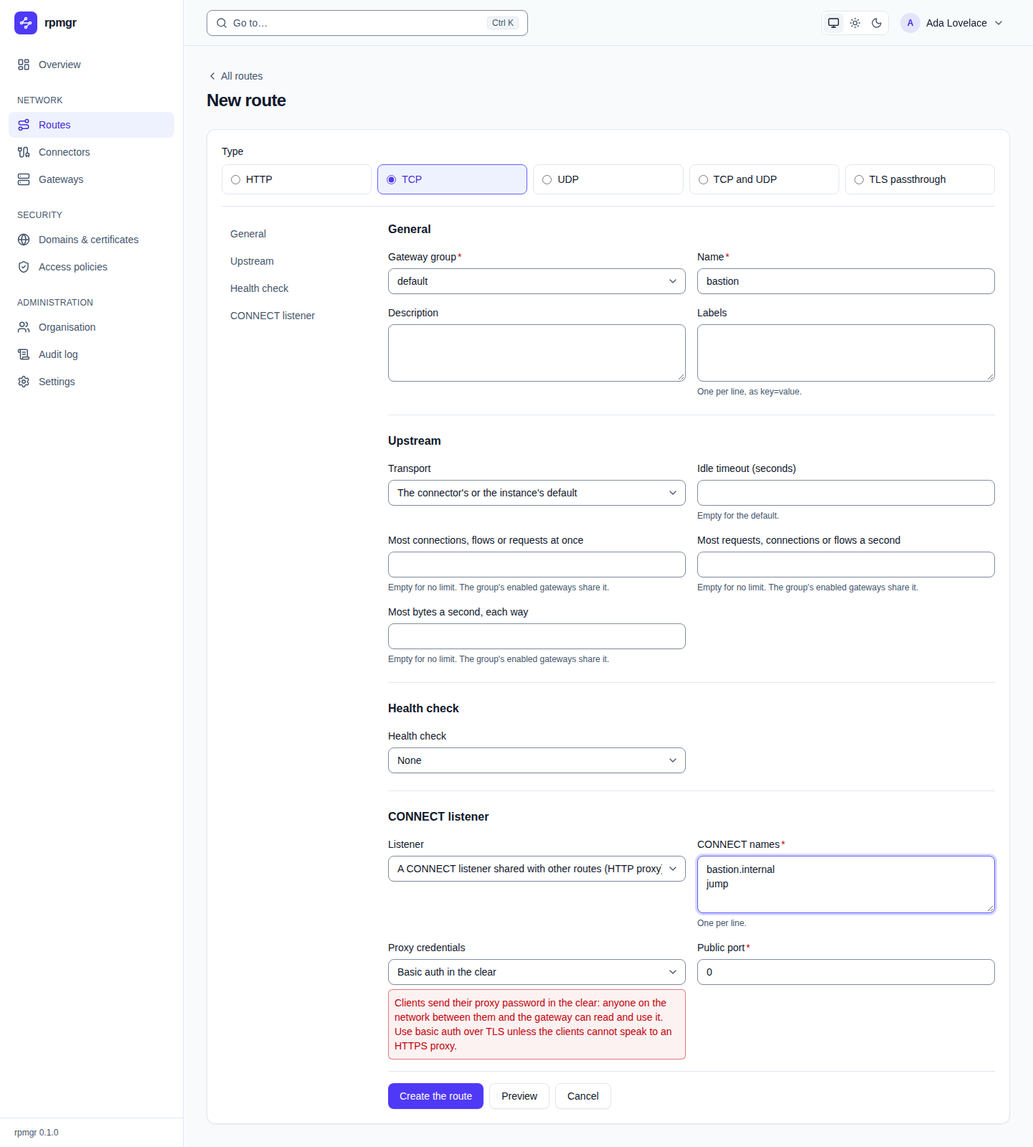
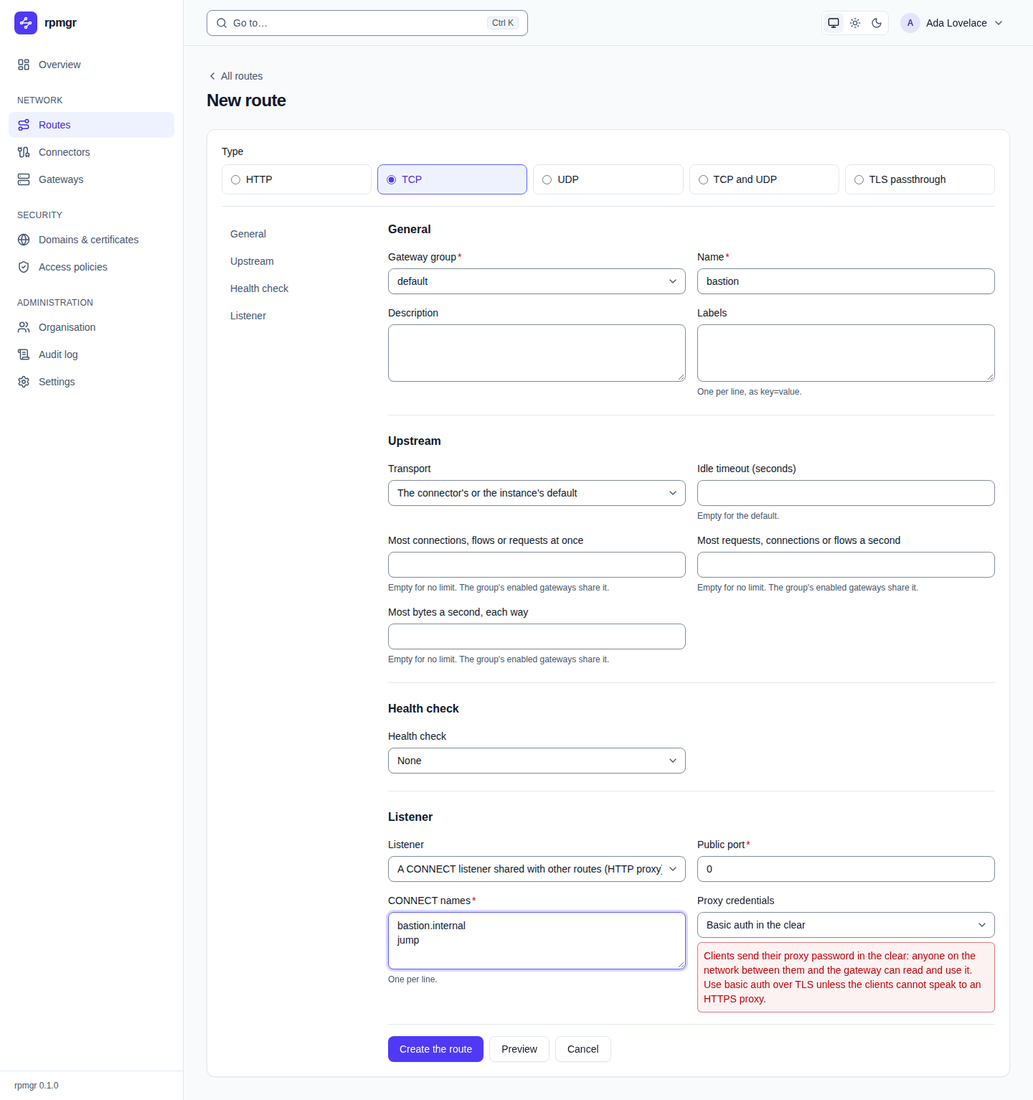
fix(web): name the listener section for every route type
The product owner renamed the "CONNECT listener" section to "Listener"
and gave it to every route on a port: TCP, UDP, TCP and UDP, and
CONNECT. A plain TCP route showed a section titled after a mode it does
not use, and a UDP route's public port stood with the hostnames. The
section now holds the public port, a TCP route's listener mode and, in
http_connect mode, its CONNECT fields, so sectionOf no longer needs the
route.

The decision is renumbered from D151 to D153, as D151 and D152 are
reserved for #966 and #968. A phone-width mock-up of a TCP route joins
09, and the CONNECT route's screenshot is retaken.

Refs #969

diff --git a/web/src/route-form/sections.test.tsx b/web/src/route-form/sections.test.tsx
@@ -41,10 +41,10 @@ const want: Record<string, Record<string, string[]>> = {
   },
   tlsPassthrough: { general: [], matching: ["hostnames"], upstream: [], health: [] },
   tcp: { general: [], upstream: ["transport", "idleTimeout", "maxConnections", "requestsPerSecond", "bandwidth"], health: [],
-    connect: ["listenerMode", "authorities", "connectAuth", "connectHostname", "connectCertificate", "port"] },
-  udp: { general: [], matching: ["port"], upstream: ["transport", "flowIdleTimeout", "maxConnections", "requestsPerSecond", "bandwidth"], health: [] },
-  tcpUdp: { general: [], matching: ["port"], upstream: ["transport", "tcpIdleTimeout", "udpFlowIdleTimeout", "maxConnections", "requestsPerSecond", "bandwidth"],
-    health: [] },
+    listener: ["listenerMode", "port", "authorities", "connectAuth", "connectHostname", "connectCertificate"] },
+  udp: { general: [], upstream: ["transport", "flowIdleTimeout", "maxConnections", "requestsPerSecond", "bandwidth"], health: [], listener: ["port"] },
+  tcpUdp: { general: [], upstream: ["transport", "tcpIdleTimeout", "udpFlowIdleTimeout", "maxConnections", "requestsPerSecond", "bandwidth"],
+    health: [], listener: ["port"] },
 };
 
 describe("routeSections", () => {
@@ -59,16 +59,15 @@ describe("routeSections", () => {
   it.each(Object.keys(routes))("places every field of a %s route in exactly one section the order names", (type) => {
     const r = routes[type]!;
     const fields = routeFields(r).map((f) => f.key);
-    expect(fields.filter((k) => sectionOf(r, k) === undefined)).toEqual([]);
+    expect(fields.filter((k) => sectionOf(k) === undefined)).toEqual([]);
     expect(routeSections(r).flatMap((s) => s.fields.map((f) => f.key)).sort()).toEqual([...fields].sort());
   });
 
   it("knows no section of a key no field has, and puts a new route's gateway group in General", () => {
-    expect(sectionOf(routes.http!, "nothing")).toBeUndefined();
-    expect(sectionOf(routes.http!, "group")).toBe("general");
-    // The port stands with the CONNECT listener on a TCP route, and with the hostnames otherwise.
-    expect(sectionOf(routes.tcp!, "port")).toBe("connect");
-    expect(sectionOf(routes.udp!, "port")).toBe("matching");
+    expect(sectionOf("nothing")).toBeUndefined();
+    expect(sectionOf("group")).toBe("general");
+    // Every route on a port has it in Listener, whether or not the route can be a CONNECT listener.
+    expect(sectionOf("port")).toBe("listener");
   });
 
   it("gives every section a distinct anchor", () => {
@@ -96,9 +95,10 @@ describe("the route form's sections", () => {
   it.each([
     ["HTTP", routes.http!, ["General", "Hostnames & matching", "TLS", "Requests & headers", "Upstream", "Health check", "Maintenance"]],
     ["TLS passthrough", routes.tlsPassthrough!, ["General", "Hostnames & matching", "Upstream", "Health check"]],
-    ["TCP", routes.tcp!, ["General", "Upstream", "Health check", "CONNECT listener"]],
-    ["CONNECT", routes.connect!, ["General", "Upstream", "Health check", "CONNECT listener"]],
-    ["UDP", routes.udp!, ["General", "Hostnames & matching", "Upstream", "Health check"]],
+    ["TCP", routes.tcp!, ["General", "Upstream", "Health check", "Listener"]],
+    ["CONNECT", routes.connect!, ["General", "Upstream", "Health check", "Listener"]],
+    ["UDP", routes.udp!, ["General", "Upstream", "Health check", "Listener"]],
+    ["TCP and UDP", routes.tcpUdp!, ["General", "Upstream", "Health check", "Listener"]],
   ])("shows a %s route's sections, each linked from the list to its heading", async (_, route, titles) => {
     edit(route);
     await screen.findByLabelText("Name");
@@ -112,11 +112,11 @@ describe("the route form's sections", () => {
     expect(marked()).toEqual([]);
   });
 
-  it("shows a CONNECT route's listener fields in its section, and a plain TCP route's listener and port only", async () => {
+  it("shows a CONNECT route's listener fields in Listener, a plain TCP route's mode and port, and a UDP route's port only", async () => {
     edit(routes.connect!);
     await screen.findByLabelText("Name");
     const section = (title: string) => screen.getByRole("heading", { name: title }).closest("section")!;
-    const connect = within(section("CONNECT listener"));
+    const connect = within(section("Listener"));
     for (const label of ["Listener", "CONNECT names", "Proxy credentials", "Listener hostname (HTTPS proxy)", "Listener certificate", "Public port"]) {
       expect(connect.getByLabelText(label, { exact: true })).toBeTruthy();
     }
@@ -124,8 +124,13 @@ describe("the route form's sections", () => {
     cleanup();
     edit(routes.tcp!);
     await screen.findByLabelText("Name");
-    const controls = section("CONNECT listener").querySelectorAll<HTMLInputElement | HTMLSelectElement>("input, select, textarea");
-    expect([...controls].map((c) => c.labels?.[0]?.textContent)).toEqual(["Listener", "Public port"]);
+    const labels = () => [...section("Listener").querySelectorAll<HTMLInputElement | HTMLSelectElement>("input, select, textarea")]
+      .map((c) => c.labels?.[0]?.textContent);
+    expect(labels()).toEqual(["Listener", "Public port"]);
+    cleanup();
+    edit(routes.udp!);
+    await screen.findByLabelText("Name");
+    expect(labels()).toEqual(["Public port"]);
   });
 
   it("marks the sections with errors and moves the focus to the first such field in the page's order", async () => {

diff --git a/web/src/route-form/sections.tsx b/web/src/route-form/sections.tsx
@@ -10,8 +10,8 @@ import { FieldGrid, FormField } from "@/route-form/form-field";
 import { cn } from "@/lib/utils";
 
 // The route form's sections, in the page's order, each with the keys of its fields in their order
-// (docs/09-web-ui.md, "Route form"). group is the gateway group of a new route. A UDP or "TCP and
-// UDP" route has no CONNECT listener, so its port stands with the hostnames, as how it is reached.
+// (docs/09-web-ui.md, "Route form"). group is the gateway group of a new route. Listener holds a
+// route's public port, a TCP route's listener mode and, in http_connect mode, its CONNECT fields.
 const order = [
   ["general", ["group", "name", "description", "labels"]],
   ["matching", ["hostnames", "pathPrefix", "headerMatches"]],
@@ -20,7 +20,7 @@ const order = [
   ["upstream", ["transport", "upstreamHeaderTimeout", "upstreamIdleTimeout", "idleTimeout", "flowIdleTimeout", "tcpIdleTimeout",
     "udpFlowIdleTimeout", "maxConnections", "requestsPerSecond", "bandwidth"]],
   ["health", ["healthCheck", "healthPort", "healthPath", "healthStatus", "healthInterval", "healthTimeout", "healthUnhealthy", "healthHealthy"]],
-  ["connect", ["listenerMode", "authorities", "connectAuth", "connectHostname", "connectCertificate", "port"]],
+  ["listener", ["listenerMode", "port", "authorities", "connectAuth", "connectHostname", "connectCertificate"]],
   ["maintenance", ["maintenance", "maintenanceMessage"]],
 ] as const satisfies readonly (readonly [string, readonly string[]])[];
 
@@ -29,9 +29,9 @@ export const sectionIds: SectionId[] = order.map(([id]) => id);
 const placed = new Map<string, SectionId>(order.flatMap(([id, keys]) => keys.map((k) => [k, id] as const)));
 const rank = new Map<string, number>(order.flatMap(([, keys]) => keys.map((k, i) => [k, i] as const)));
 
-// sectionOf is the section of a field of route r by its key; undefined for a key no section has.
-export function sectionOf(r: Route, key: string): SectionId | undefined {
-  return key === "port" && r.spec.case !== "tcp" ? "matching" : placed.get(key);
+// sectionOf is the section of a field by its key; undefined for a key no section has.
+export function sectionOf(key: string): SectionId | undefined {
+  return placed.get(key);
 }
 
 // anchor is the ID of a section's element, which the section list links to.
@@ -49,18 +49,18 @@ export function routeSections(r: Route): RouteSection[] {
   const fields = routeFields(r);
   const at = (key: string) => rank.get(key) ?? -1;
   return sectionIds
-    .map((id) => ({ id, fields: fields.filter((f) => (sectionOf(r, f.key) ?? "general") === id).sort((a, b) => at(a.key) - at(b.key)) }))
+    .map((id) => ({ id, fields: fields.filter((f) => (sectionOf(f.key) ?? "general") === id).sort((a, b) => at(a.key) - at(b.key)) }))
     .filter((s) => s.fields.length > 0);
 }
 
 // SectionList links to each section of the form; it stands beside the form from 1024 px and above
 // it on narrower screens. A section that holds a field with an error is marked, with an icon and in
 // the colour of errors, and its link says so to screen readers.
-export function SectionList<V extends FieldValues>({ route, sections, form, className }: {
-  route: Route; sections: RouteSection[]; form: UseFormReturn<V>; className?: string;
+export function SectionList<V extends FieldValues>({ sections, form, className }: {
+  sections: RouteSection[]; form: UseFormReturn<V>; className?: string;
 }) {
   const { t } = useTranslation();
-  const invalid = new Set(Object.keys(form.formState.errors).map((k) => sectionOf(route, k) ?? "general"));
+  const invalid = new Set(Object.keys(form.formState.errors).map((k) => sectionOf(k) ?? "general"));
   return (
     <nav aria-label={t("routeForm.sections.list")} className={cn("lg:sticky lg:top-24 lg:self-start", className)}>
       <ul className="flex flex-wrap gap-x-1 gap-y-1 text-sm lg:grid lg:gap-0.5">

diff --git a/web/e2e/sign-in.spec.ts b/web/e2e/sign-in.spec.ts
@@ -222,7 +222,7 @@ test("signs in, creates an API token with a step-up, sets up an authenticator an
   await expect(page.getByText("A bandwidth limit is at least 1024 bytes a second; leave it empty for none.")).toBeVisible();
   await expect(page.getByLabel("Most bytes a second, each way")).toHaveAttribute("aria-invalid", "true");
   // The section list marks both sections, and the failed save moved to the first field with an
-  // error on the page (D151).
+  // error on the page (D153).
   const sectionList = page.getByRole("navigation", { name: "Sections of the form" });
   await expect(sectionList.getByRole("link", { name: /\(has an error\)$/ })).toHaveText(["Hostnames & matching (has an error)", "Upstream (has an error)"]);
   await expect(page.getByLabel("Serve only requests with these headers")).toBeFocused();

diff --git a/web/src/pages/route-edit.tsx b/web/src/pages/route-edit.tsx
@@ -135,7 +135,7 @@ function RouteForm({ base, initial, onRestart }: { base: Route; initial?: RouteV
         </>
       ) : (
         <div className="grid gap-6 lg:grid-cols-[13rem_minmax(0,1fr)]">
-          <SectionList route={base} sections={sections} form={form} />
+          <SectionList sections={sections} form={form} />
           <form ref={formRef} onSubmit={form.handleSubmit(save, jump)} className="grid min-w-0 gap-4 rounded-xl border border-border bg-card p-5 shadow-xs" noValidate>
             {conflict && (
               <Conflict base={base} mine={conflict.mine} theirs={conflict.theirs}

diff --git a/web/src/pages/route-new.tsx b/web/src/pages/route-new.tsx
@@ -168,7 +168,7 @@ function NewRouteForm({ type }: { type: RouteType }) {
   const groupError = form.formState.errors.group?.message;
   return (
     <div className="grid gap-6 border-t border-border pt-5 lg:grid-cols-[13rem_minmax(0,1fr)]">
-      <SectionList route={base} sections={sections} form={form} />
+      <SectionList sections={sections} form={form} />
       <form ref={formRef} onSubmit={form.handleSubmit(save, jump)} className="grid min-w-0 gap-4" noValidate>
         <FormSections sections={sections} form={form} general={(
           <div className="grid gap-1.5">

diff --git a/docs/14-open-decisions.md b/docs/14-open-decisions.md
@@ -133,7 +133,7 @@
 | D148 | How a restart with socket hand-off is started, as an all-in-one's `systemctl reload` reloads the connector-local policy today | `systemctl reload` is the hand-off for gateways and all-in-ones, and `rpmgr policy` signals an all-in-one itself; reload unchanged, the hand-off only through `rpmgr handoff` | **`systemctl reload` is the hand-off** (decided 2026-10-25): gateway and all-in-one units get `ExecReload=<bin> handoff <role>`, and `rpmgr handoff <role>` does the same for every role; `rpmgr policy …` sends an all-in-one `SIGHUP` itself; a connector's reload stays the policy reload; `systemctl restart` stays the restart without a hand-off. Weakness: a `systemctl reload rpmgr-all-in-one` that an operator used for the policy now restarts the process | [10](10-operations.md#hardened-systemd-units), [16](16-cli.md#commands) |
 | D149 | Whether the container image restarts with socket hand-off, where rpmgr is the container's first process | no hand-off in containers, documented; an init wrapper in the image | **No hand-off in containers** (decided 2026-10-25): a container restarts with the drain of a planned restart, and an orchestrator replaces containers instead. Weakness: a lone gateway in a container refuses connections while it restarts | [10](10-operations.md#hardened-systemd-units), [04](04-security.md#socket-hand-off-phase-2) |
 | D150 | The smaller choices of the socket hand-off design (slice 17.1) and the rules for its study 17.2, accepted together | — | **Accepted as proposed** (2026-10-25): the old process re-executes the installed binary, checked for root ownership and no group or other write, and passes its sockets by inheritance with a manifest and a status pipe; socket activation and `SO_REUSEPORT` for TCP are rejected; the new process checks every descriptor against the manifest and its boot file and closes others; it starts from the last-known-good snapshot, supersedes the old control session and reports ready, after which the old process stops accepting and sends `Drain{reason: handoff}`, and connectors redial at once; a new process not ready within the hand-off readiness window is killed and the old one serves on; one hand-off at a time, at most one old process; QUIC connection IDs carry the process generation and the old process relays packets and new `udp` flows during the drain; metrics and logs name the generation; an all-in-one moves its controller with `Goodbye{restart}` and a 503 window and resumes it if the new process fails; a plain restart drains and stops as before; the security tests `TestHandoff_OnlyVerifiedBinaryGetsSockets` and `TestHandoff_UnexpectedDescriptorsRefused`; the hand-off applies from v0.3.0 on. The study's rules S-1 to S-7, with their fallbacks, are in ADR-0022. Applied by S10 (2026-10-25, [S10](spikes/S10.md)): S-1, S-5 and S-6 passed; S-2's relay reached 5 to 39 % of quic-go's direct throughput and S-3's lost datagrams, so their fallbacks apply: the old process alone reads the UDP sockets until it exits, connectors on `auto` move over TCP meanwhile, and no connection-ID generation or relay is built; S-4 then failed for a connector pinned to `quic`, so the old process accepts public connections until the new one has sessions of every connector it had; the old process opens no further control session after its `Goodbye{superseded}` | [03](03-connections.md#restarts-with-socket-hand-off-phase-2), [04](04-security.md#socket-hand-off-phase-2), [ADR-0022](adr/0022-socket-hand-off-by-re-exec.md) |
-| D151 | How the route form, which showed about 30 fields in one flat grid, lets a user find a setting | titled sections on one page with a section list; tabs; collapsible sections | **Sections on one page with a section list** (decided 2026-10-27, #969): the new-route and edit forms group their fields into titled sections in a fixed order, leaving out a section with no field for the route's type; a section list beside the form, above it on narrow screens, jumps to each section and marks one that holds a field with an error, and a failed save moves to the first such field; the form's controls stay at its end. Nothing is hidden or collapsed, so the browser's find reaches every field. Weakness: the page stays as long as before | [09](09-web-ui.md#route-form) |
+| D153 | How the route form, which showed about 30 fields in one flat grid, lets a user find a setting | titled sections on one page with a section list; tabs; collapsible sections | **Sections on one page with a section list** (decided 2026-10-27, #969): the new-route and edit forms group their fields into titled sections in a fixed order, leaving out a section with no field for the route's type; a route on a port has a Listener section with its public port, a TCP route's listener mode and, in `http_connect` mode, its CONNECT fields; a section list beside the form, above it on narrow screens, jumps to each section and marks one that holds a field with an error, and a failed save moves to the first such field; the form's controls stay at its end. Nothing is hidden or collapsed, so the browser's find reaches every field. Weakness: the page stays as long as before | [09](09-web-ui.md#route-form) |
 
 ## Project and process
 

diff --git a/docs/09-web-ui.md b/docs/09-web-ui.md
@@ -418,23 +418,24 @@ flowchart LR
 
 The form that creates a route and the one that edits it group their fields into titled sections on
 one page, with a section list beside them that jumps to each section
-([D151](14-open-decisions.md#engineering)).
+([D153](14-open-decisions.md#engineering)).
 
 - **Sections,** in this order; a section with no field for the route's type is left out:
 
   | Section | Fields | Types |
   |---|---|---|
   | General | the gateway group (new routes), name, description, labels | every type |
-  | Hostnames & matching | hostnames, path prefix, header matches; the public port of a UDP or "TCP and UDP" route | HTTP, TLS passthrough, UDP, TCP and UDP |
+  | Hostnames & matching | hostnames, path prefix, header matches | HTTP, TLS passthrough |
   | TLS | TLS certificate, uploaded certificate, port 80, HSTS | HTTP |
   | Requests & headers | host header, request and response headers, WebSocket, largest request body | HTTP |
   | Upstream | transport, upstream response header and idle timeouts, idle and flow idle timeouts, limits | every type |
   | Health check | the health check and its parts | every type |
-  | CONNECT listener | listener, CONNECT names, proxy credentials, listener hostname and certificate, public port | TCP |
+  | Listener | listener mode, public port; for a CONNECT route also CONNECT names, proxy credentials, listener hostname and certificate | TCP, UDP, TCP and UDP |
   | Maintenance | maintenance, maintenance message | HTTP |
 
-  - A TCP route's listener chooses whether it is a CONNECT listener, so a plain TCP route has the
-    section too, with its listener and public port.
+  - Listener holds what the gateway listens on for a route on a port: a TCP route's listener mode,
+    and its public port, as for UDP and "TCP and UDP" routes. A CONNECT route, a TCP route in
+    `http_connect` mode, adds its CONNECT fields there.
   - A field shown only in some cases, such as the uploaded certificate, appears in its section
     while the case holds.
 - **Nothing is hidden or collapsed,** so the browser's find reaches every field. Tabs and
@@ -444,7 +445,31 @@ one page, with a section list beside them that jumps to each section
 - **The section list** is a navigation landmark of links, one per section, each to its heading,
   so the keyboard reaches and follows them like any link. From 1024 px it stands beside the form
   and stays in view while the form scrolls; on narrower screens it sits above the form, its links
-  wrapping across the width, so nothing scrolls sideways.
+  wrapping across the width, so nothing scrolls sideways:
+
+  ```
+  ┌ Edit route bastion (TCP), 390 px ──────────┐
+  │ General · Upstream · Health check ·        │
+  │ Listener                                   │
+  │ ┌────────────────────────────────────────┐ │
+  │ │ General                                │ │
+  │ │ Name *                                 │ │
+  │ │ [bastion                           ]   │ │
+  │ │ …                                      │ │
+  │ ├────────────────────────────────────────┤ │
+  │ │ Listener                               │ │
+  │ │ Listener                               │ │
+  │ │ [A CONNECT listener shared …       ]   │ │
+  │ │ Public port *                          │ │
+  │ │ [0                                 ]   │ │
+  │ │ CONNECT names *                        │ │
+  │ │ [bastion.internal                  ]   │ │
+  │ │ …                                      │ │
+  │ ├────────────────────────────────────────┤ │
+  │ │ [Save]  [Preview]  [Cancel]            │ │
+  │ └────────────────────────────────────────┘ │
+  └────────────────────────────────────────────┘
+  ```
 - **Errors:** a section that holds a field with an error is marked in the list with an icon, in
   the colour of errors, and screen readers hear "has an error" with its name. A save or preview
   that fails moves the focus to the first field with an error, in the order of the page, whether

diff --git a/docs/guide/web-ui/routes.md b/docs/guide/web-ui/routes.md
@@ -62,12 +62,12 @@ section the type has no field for is left out:
 | Section | Route types |
 |---|---|
 | **General** | Every type |
-| **Hostnames & matching** | HTTP, TLS passthrough, UDP, TCP and UDP |
+| **Hostnames & matching** | HTTP, TLS passthrough |
 | **TLS** | HTTP |
 | **Requests & headers** | HTTP |
 | **Upstream** | Every type |
 | **Health check** | Every type |
-| **CONNECT listener** | TCP |
+| **Listener** | TCP, UDP, TCP and UDP |
 | **Maintenance** | HTTP |
 
 The list of sections beside the form, above it on a phone, jumps to a section when you choose it.
@@ -92,7 +92,6 @@ field that the form or the controller refuses is marked in the list in red, with
 | **Hostnames** | HTTP and TLS passthrough: one per line. Each must be a verified domain of the organisation, or a name below one claimed with **Also every name below it**, which also allows a `*.` name ([Domains & certificates](domains.md)). A `*.` name needs **Uploaded**: ACME issues no certificate for it |
 | **Path prefix** | HTTP: serve only paths below it; empty for all |
 | **Serve only requests with these headers** | HTTP: header matches, one per line: `Name: value` for that exact value, or `Name` alone for any value. Where routes share a hostname and path prefix, the one with more matching headers wins ([Header matches](../routes/http.md#header-matches)). Empty matches every request |
-| **Public port** | UDP, and TCP and UDP: the gateway group's port the route takes |
 
 **TLS**, on HTTP routes:
 
@@ -153,15 +152,17 @@ is refused on its field, as is anything that is not a whole number.
 The bounds of these values are in [03](../../03-connections.md#timeouts-keepalive-and-backoff). A
 TLS passthrough route, and a route with an h2c target, take a TCP check only.
 
-**CONNECT listener**, on TCP routes ([CONNECT routes](../routes/tcp-and-udp.md#connect-routes)):
-**Listener** and **Public port**; with **A CONNECT listener shared with other routes (HTTP
-proxy)** also **CONNECT names**, one per line, and **Proxy credentials**: **None: IP rules only**,
-**Basic auth over TLS (HTTPS proxy)**, which asks for **Listener hostname (HTTPS proxy)** and
-**Listener certificate**, or **Basic auth in the clear**, which the form warns about as long as it
-is chosen, as the server does after the save.
+**Listener**, on TCP, UDP, and TCP and UDP routes: what the gateway listens on
+([TCP and UDP routes](../routes/tcp-and-udp.md)). Every such route has **Public port**, the
+gateway group's port it takes. A port of 0, the default, takes a random free port from the group's
+port pools, free for both protocols on a TCP and UDP route, within the organisation's port quota.
 
-A public port of 0, the default, takes a random free port from the gateway group's port pools,
-free for both protocols on a TCP and UDP route, within the organisation's port quota.
+A TCP route also has **Listener**: **Its own public port** or **A CONNECT listener shared with other
+routes (HTTP proxy)** ([CONNECT routes](../routes/tcp-and-udp.md#connect-routes)). The second adds
+**CONNECT names**, one per line, and **Proxy credentials**: **None: IP rules only**, **Basic auth
+over TLS (HTTPS proxy)**, which asks for **Listener hostname (HTTPS proxy)** and **Listener
+certificate**, or **Basic auth in the clear**, which the form warns about as long as it is chosen,
+as the server does after the save.
 
 **Maintenance**, on HTTP routes
 ([Maintenance and error pages](../routes/maintenance-and-pages.md)):

diff --git a/CHANGELOG.md b/CHANGELOG.md
@@ -119,8 +119,9 @@ Changes to the design documents are not recorded here: see the git history and t
   starts with `Rpmgr-User-`, also spelt with `_`, is removed before a request goes upstream; both
   are kept for the gateway's own endpoints and OIDC sign-in. (#617)
 - Web UI: the new-route and edit forms group their fields into titled sections, such as
-  **Hostnames & matching**, **TLS** and **Upstream**, with a list beside the form, above it on a
-  phone, that jumps to each section and marks one holding a field with an error. A failed save or
+  **Hostnames & matching**, **TLS**, **Upstream** and, for routes on a port, **Listener**, with a
+  list beside the form, above it on a phone, that jumps to each section and marks one holding a
+  field with an error. A failed save or
   preview puts the cursor in the first field with an error. Every field stays on the page. (#969)
 
 ### Fixed

diff --git a/docs/guide/routes/tcp-and-udp.md b/docs/guide/routes/tcp-and-udp.md
@@ -189,7 +189,7 @@ rpmgr create route --tcp --http-connect --name bastion --group eu \
 ssh -o ProxyCommand='nc -X connect -x edge.example.com:20001 %h %p' bastion.internal
 ```
 
-In the web UI, **Create a route** with **TCP**, then, in the **CONNECT listener** section,
+In the web UI, **Create a route** with **TCP**, then, in the **Listener** section,
 **Listener**: **A CONNECT listener shared with other routes (HTTP proxy)**, the **CONNECT names**,
 one per line, and **Proxy credentials**:
 
